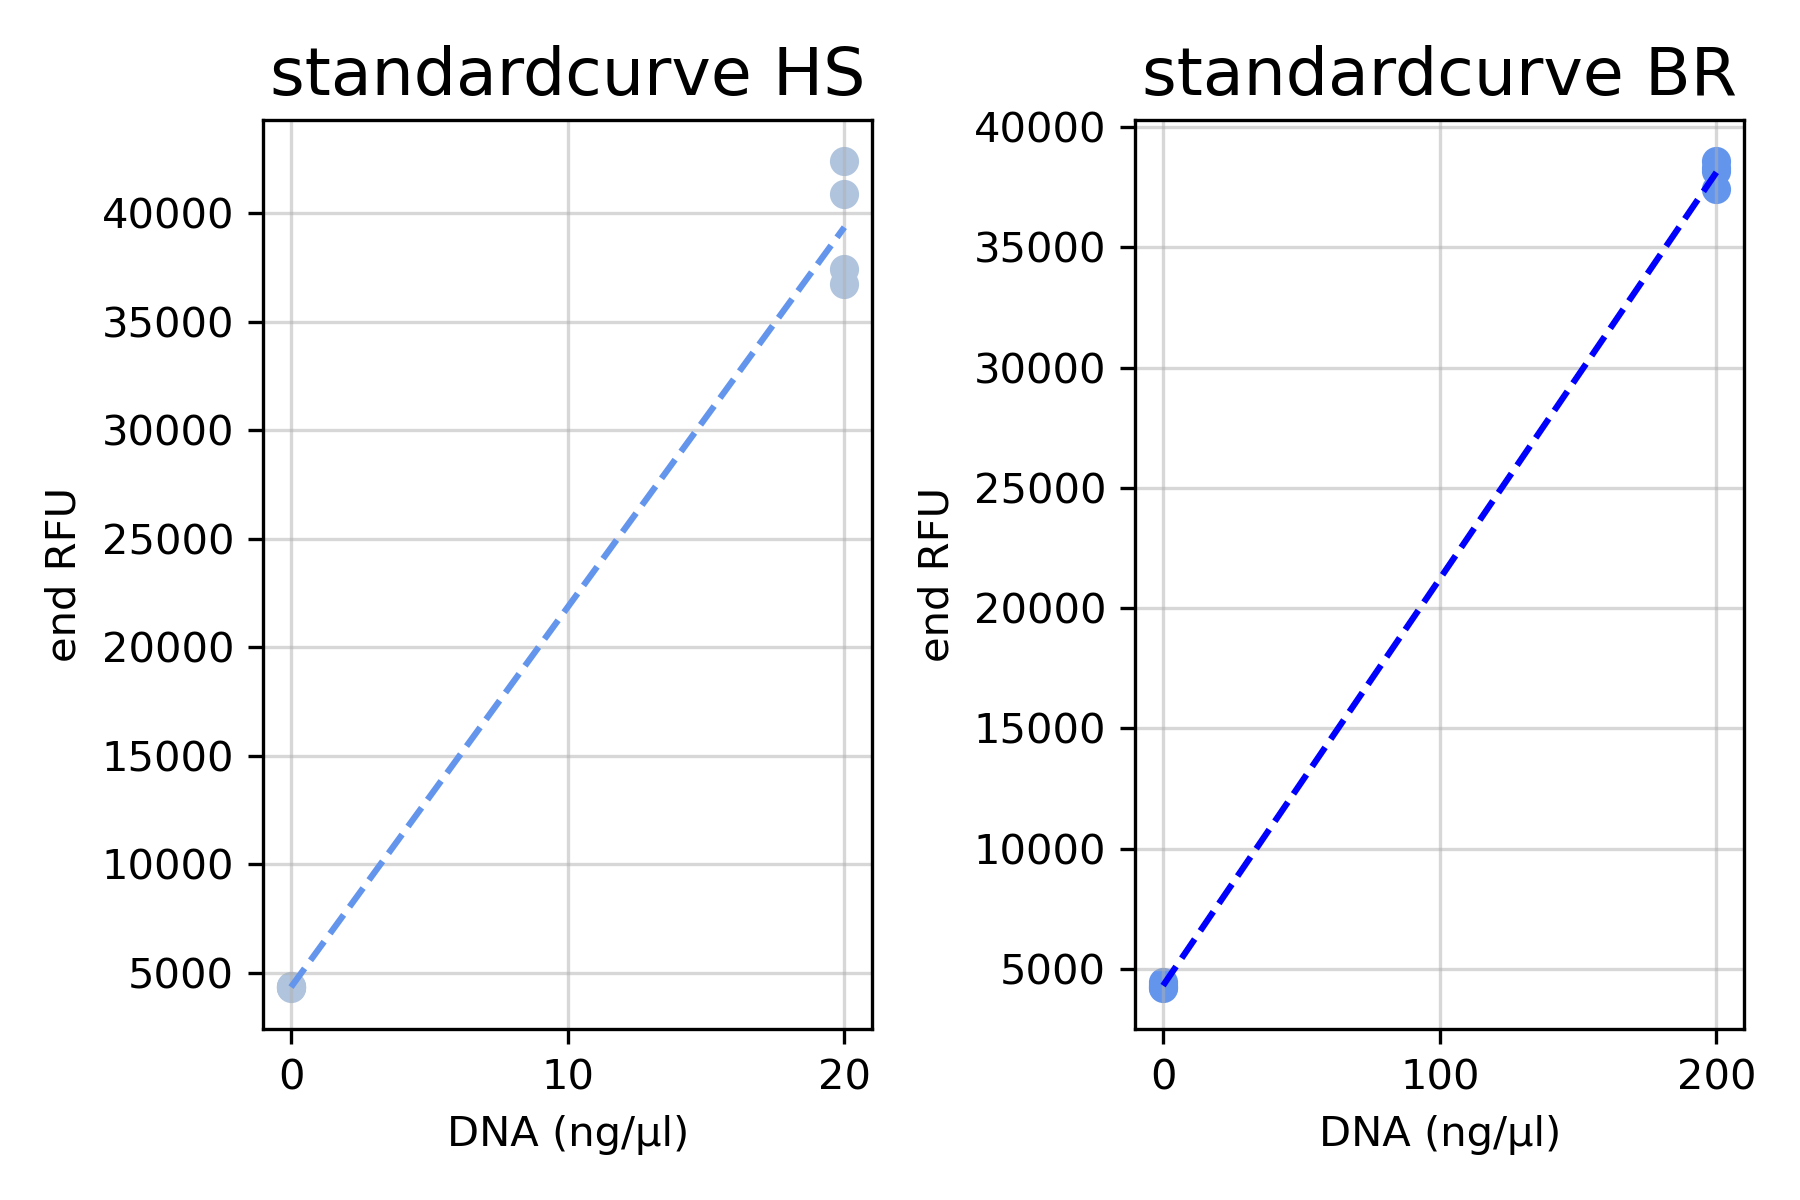
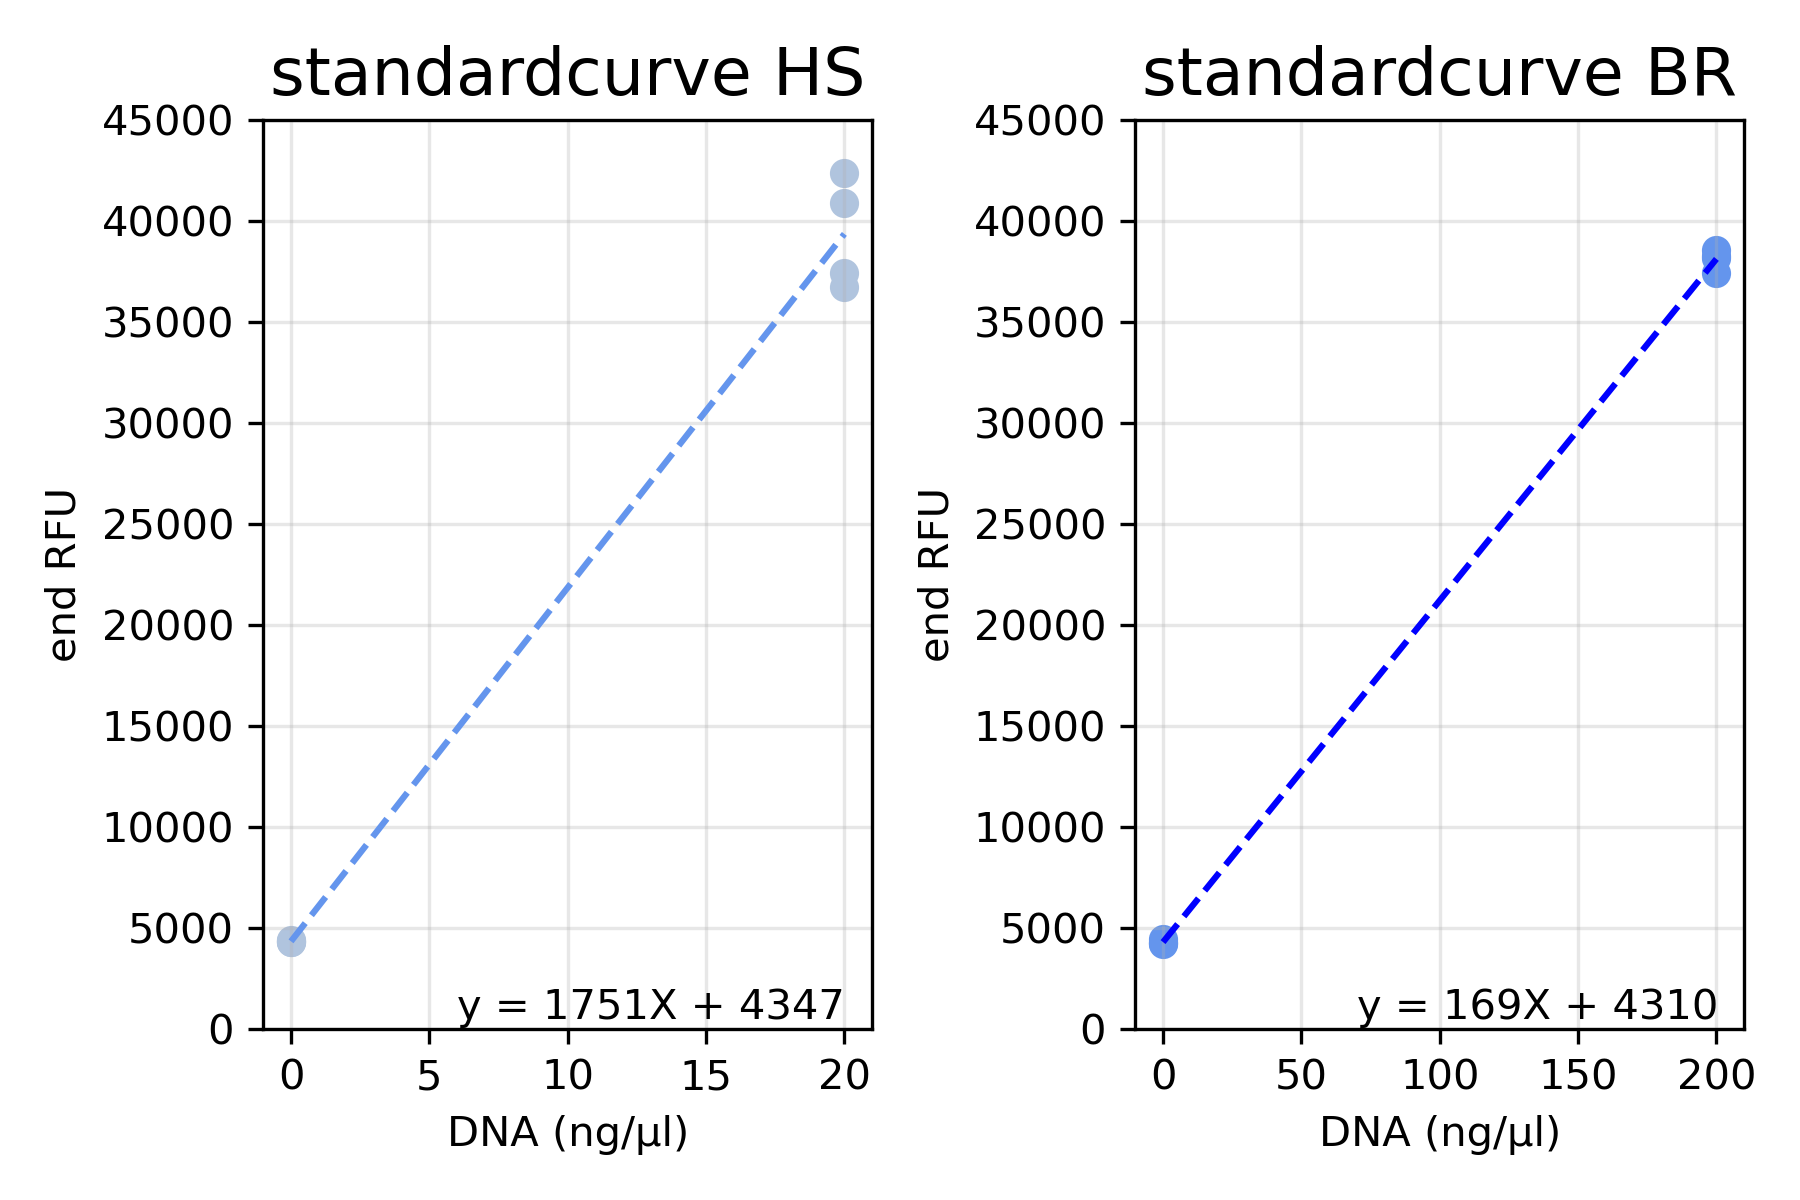
HS or BR also possible
In the previous version it was only possible to analyze measurements with both HS and BR. With this version it also works when you only used one of the 2 assays.

diff --git a/Qubit_on_CFX/qubit_on_CFX.py b/Qubit_on_CFX/qubit_on_CFX.py
@@ -1,3 +1,4 @@
+
 # =============================================================================
 # Title:    Qubit_on_CFX analysis tool
 # Version:  1.0
@@ -23,111 +24,159 @@ from matplotlib import pyplot as plt
 
 
 # ==================Import file================================================
-project = "190905_QubitLAZ19-1_to_LAZ19-40"
-csv = '190905-Qubit_LAZ19-1_to_LAZ19-40-End_Point_Results_SYBR.csv'
+# =============================================================================
+project = "210527-QubitLena"
+csv = '//zeus/mmb/molecular_ecology/mollab_team/Projects/2021/2021_Lena/210422-LenaQubit.csv'
 data = pd.read_csv(csv, delimiter=';')
 # =============================================================================
 
 
 # ==================Making a standard curve====================================
+# =============================================================================
 # Extract standard curve data
 stdcurveHSraw = data[(data["Sample"].str.startswith("HS "))]
 stdcurveBRraw = data[(data["Sample"].str.startswith("BR "))]
-# Make empty dataframe
-stdcurveHS = pd.DataFrame()
-stdcurveBR = pd.DataFrame()
-# Cut ng/ul from standard name
-stdcurveHS["ng/ul"] = stdcurveHSraw["Sample"].str.split(' ', expand=True)[1].astype(float)
-stdcurveBR["ng/ul"] = stdcurveBRraw["Sample"].str.split(' ', expand=True)[1].astype(float)
-# Get "End RFU" of the standards
-stdcurveHS["End RFU"] = stdcurveHSraw["End RFU"]
-stdcurveBR["End RFU"] = stdcurveBRraw["End RFU"]
 
-# Linear regression + interpolation for standard curve
-HSslope, HSintercept, rv, pv, se = stats.linregress(stdcurveHS["ng/ul"], stdcurveHS["End RFU"])
-HS_interp = np.linspace(np.min(stdcurveHS["ng/ul"]), np.max(stdcurveHS["ng/ul"]), num=500)
+# ==================High Sensitivity===========================================
+# when there are HS measurements
+if stdcurveHSraw.empty is False: 
+    stdcurveHS = pd.DataFrame()
+    # Cut ng/ul value from standard name
+    stdcurveHS["ng/µl"] = (
+        stdcurveHSraw["Sample"].str.split(' ', expand=True)[1].astype(float))
+        # Expand, returns DataFrame instead of lists of strings
+    # Get "End RFU" of the standards
+    stdcurveHS["End RFU"] = stdcurveHSraw["End RFU"]
+    # Linear regression + interpolation for standard curve
+    HSslope, HSintercept, rv, pv, se = stats.linregress(stdcurveHS["ng/µl"], 
+                                                        stdcurveHS["End RFU"])
+    HS_interp = np.linspace(np.min(stdcurveHS["ng/µl"]), 
+                            np.max(stdcurveHS["ng/µl"]), 
+                            num=500)
+    
+# ==================Broad Range================================================
+# when there are BR measurements
+if stdcurveBRraw.empty is False: 
+    # Make empty dataframe
+    stdcurveBR = pd.DataFrame()
+    # Cut ng/ul value from standard name
+    stdcurveBR["ng/µl"] = (
+        stdcurveBRraw["Sample"].str.split(' ', expand=True)[1].astype(float))
+        # Expand, returns DataFrame instead of lists of strings
+    # Get "End RFU" of the standards
+    stdcurveBR["End RFU"] = stdcurveBRraw["End RFU"]
 
-BRslope, BRintercept, rv, pv, se = stats.linregress(stdcurveBR["ng/ul"], stdcurveBR["End RFU"])
-BR_interp = np.linspace(np.min(stdcurveBR["ng/ul"]), np.max(stdcurveBR["ng/ul"]), num=500)
+    # Linear regression + interpolation for standard curve
+    BRslope, BRintercept, rv, pv, se = stats.linregress(stdcurveBR["ng/µl"], 
+                         stdcurveBR["End RFU"])
+    BR_interp = np.linspace(np.min(stdcurveBR["ng/µl"]), 
+                    np.max(stdcurveBR["ng/µl"]), 
+                    num=500)
 
-# Plot standard curves
-# empty plot
-fig, ax = plt.subplots(ncols=2, dpi=300)
-HSax = ax[0]
-HSax.grid(alpha=0.5)
-HSax.set_title('standardcurve HS', fontsize=16)
-#plot HS curve
-HS = HSax.scatter(stdcurveHS["ng/ul"], stdcurveHS["End RFU"], c='lightsteelblue')
-HSax.set_xlabel('DNA (ng/µl)')
-HSax.set_ylabel('end RFU')
-HSax.plot(
-        HS_interp, 
-        HSintercept + HSslope * HS_interp,
-        label='Linear regression',
-        linestyle='--',
-        c='cornflowerblue'
-        )
+# ==================Plot standard curves=======================================
+# empty plot with 2 columns
+fig, ax = plt.subplots(ncols=2, dpi=300)            
+
+if stdcurveHSraw.empty is False:
+    HSax = ax[0] # HS plot on the left
+    HSax.set_xticks(np.arange(0,25,5)) # x-grid from 0 to 25, with intervals = 5
+    HSax.grid(alpha=0.3) # transparancy of grid 
+    HSax.set_title('standardcurve HS', fontsize=16)
+    # plot HS curve
+    HS = HSax.scatter(stdcurveHS["ng/µl"],      # x-axis
+                      stdcurveHS["End RFU"],    # y-axis
+                      c='lightsteelblue')       # color of the dots
+    HSax.set_xlabel('DNA (ng/µl)')
+    HSax.set_ylabel('end RFU')
+    # draw standard curve line
+    HSax.plot(
+            HS_interp,                          # x-axis
+            HSintercept + HSslope * HS_interp,  # y-axis
+            linestyle='--',                     # style of the line
+            c='cornflowerblue'                  # color of the line
+            )
+    # add equation to plot
+    HSequation = "y = " + str(round(HSslope)) + "X + " + str(round(HSintercept))
+    HSax.text(6,500, HSequation)
+
 # plot BR curve
-BRax = ax[1]
-BRax.grid(alpha=0.5)
-BRax.set_title('standardcurve BR', fontsize=16)
-BR = BRax.scatter(stdcurveBR["ng/ul"], stdcurveBR["End RFU"], c='cornflowerblue')
-BRax.set_xlabel('DNA (ng/µl)')
-BRax.set_ylabel('end RFU')
-BRax.plot(
-        BR_interp, 
-        BRintercept + BRslope * BR_interp,
-        label='Linear regression',
-        linestyle="--",
-        c='blue'
+if stdcurveBRraw.empty is False:
+    BRax = ax[1] # BR plot on the right
+    BRax.set_xticks(np.arange(0,250,50)) # x-grid from 0 to 25, with intervals = 5
+    BRax.grid(alpha=0.3)
+    BRax.set_title('standardcurve BR', fontsize=16)
+    BR = BRax.scatter(stdcurveBR["ng/µl"], 
+                      stdcurveBR["End RFU"], 
+                      c='cornflowerblue')
+    BRax.set_xlabel('DNA (ng/µl)')
+    BRax.set_ylabel('end RFU')
+    # draw standard curve line
+    BRax.plot(
+            BR_interp,                          # x-axis
+            BRintercept + BRslope * BR_interp,  # y-axis
+            linestyle="--",                     # style of the line
+            c='blue'                            # color of the line
+            )
+    # add equation to plot
+    BRequation = (
+        "y = " + str(round(BRslope)) + "X + " + str(round(BRintercept))
         )
+    BRax.text(70,500, BRequation)
+
 # make layout fit better
 plt.tight_layout()
 # save standard curve as .png
 plt.savefig("output/standardcurve"+ project + ".png")
-
 # =============================================================================
 
-
 # ==================Calculating concentrations=================================
-# Make a new dataframe with the HS Samples only
-DNA_concentrations_HS_raw = data.loc[(data["Sample"].str.startswith("HS_"))]
-# Make a new empty dataframe
-DNA_concentrations_HS = pd.DataFrame()
-# Add HS sample names and RFU columns only
-DNA_concentrations_HS["Sample"] = DNA_concentrations_HS_raw["Sample"]
-DNA_concentrations_HS["HS_RFU"] = DNA_concentrations_HS_raw["End RFU"]
-# Add a new column for the concentration
-DNA_concentrations_HS["HS_[DNA] ng/µL"] = ''
-# for every sample calculate concentration ((RFU - y-intercept) / slope)
-for sample in DNA_concentrations_HS.index:
-    concentration = (
-        ((DNA_concentrations_HS['HS_RFU'][sample]) - HSintercept) 
-        / HSslope
-        ) 
-    # add concentration to the dataframe
-    DNA_concentrations_HS.at[sample,'HS_[DNA] ng/µL'] = concentration
+# =============================================================================
+# Make new empty dataframes for HS and BR results
+DNA_concentrations_HS = pd.DataFrame(columns = ["Sample"])
+DNA_concentrations_BR = pd.DataFrame(columns = ["Sample"])
 
-# Make a new dataframe with the BR Samples + RFU only
-DNA_concentrations_BR_raw = data.loc[(data["Sample"].str.startswith("BR_"))]
-DNA_concentrations_BR = pd.DataFrame()
-DNA_concentrations_BR["Sample"] = DNA_concentrations_BR_raw["Sample"]
-DNA_concentrations_BR["BR_RFU"] = DNA_concentrations_BR_raw["End RFU"]
-# calculate concentration ((RFU - y-intercept) / slope)
-DNA_concentrations_BR["BR_[DNA] ng/µL"] = ''
-for sample in DNA_concentrations_BR.index:
-    concentration = (
-        ((DNA_concentrations_BR['BR_RFU'][sample]) - BRintercept) 
-        / BRslope
-        )
-    # add concentration to the dataframe
-    DNA_concentrations_BR.at[sample,'BR_[DNA] ng/µL'] = concentration
+# ==================High Sensitivity===========================================
+if stdcurveHSraw.empty is False:
+    # Get data from HS samples only
+    DNA_concentrations_HS_raw = data.loc[(data["Sample"].str.startswith("HS_"))]
+    # Add HS sample names and RFU columns to results dataframe
+    DNA_concentrations_HS["Sample"] = DNA_concentrations_HS_raw["Sample"]
+    DNA_concentrations_HS["HS_RFU"] = DNA_concentrations_HS_raw["End RFU"]
+    # Add a new column for the concentration
+    DNA_concentrations_HS["HS_[DNA] ng/µL"] = ''
+    # for every sample calculate concentration ((RFU - y-intercept) / slope)
+    for sample in DNA_concentrations_HS.index:
+        concentration = (
+            ((DNA_concentrations_HS['HS_RFU'][sample]) - HSintercept) 
+            / HSslope
+            ) 
+        # add concentration to the dataframe
+        DNA_concentrations_HS.at[sample,'HS_[DNA] ng/µL'] = concentration
+    # Get rid of HS in sample names, to be able to merge samples
+    DNA_concentrations_HS['Sample'] = (
+        (DNA_concentrations_HS['Sample'].str.split('_', 
+        expand=True))[1].astype(str))
 
-# Get rid of HS / BR in sample names, to be able to merge samples
-DNA_concentrations_HS['Sample'] = (
-    (DNA_concentrations_HS['Sample'].str.split('_', expand=True))[1].astype(str))
-DNA_concentrations_BR['Sample'] = (
-    (DNA_concentrations_BR['Sample'].str.split('_', expand=True))[1].astype(str))
+if stdcurveBRraw.empty is False:
+    # Get data from BR samples only
+    DNA_concentrations_BR_raw = data.loc[(data["Sample"].str.startswith("BR_"))]
+    # Add BR sample names and RFU columns to results dataframe    
+    DNA_concentrations_BR["Sample"] = DNA_concentrations_BR_raw["Sample"]
+    DNA_concentrations_BR["BR_RFU"] = DNA_concentrations_BR_raw["End RFU"]
+    # calculate concentration ((RFU - y-intercept) / slope)
+    DNA_concentrations_BR["BR_[DNA] ng/µL"] = ''
+    for sample in DNA_concentrations_BR.index:
+        concentration = (
+            ((DNA_concentrations_BR['BR_RFU'][sample]) - BRintercept) 
+            / BRslope
+            )
+        # add concentration to the dataframe
+        DNA_concentrations_BR.at[sample,'BR_[DNA] ng/µL'] = concentration
+
+    # Get rid of BR in sample names, to be able to merge samples
+    DNA_concentrations_BR['Sample'] = (
+        (DNA_concentrations_BR['Sample'].str.split('_', 
+        expand=True))[1].astype(str))
 
 # Merge HS and BR measurements
 DNA_concentrations = pd.merge(
